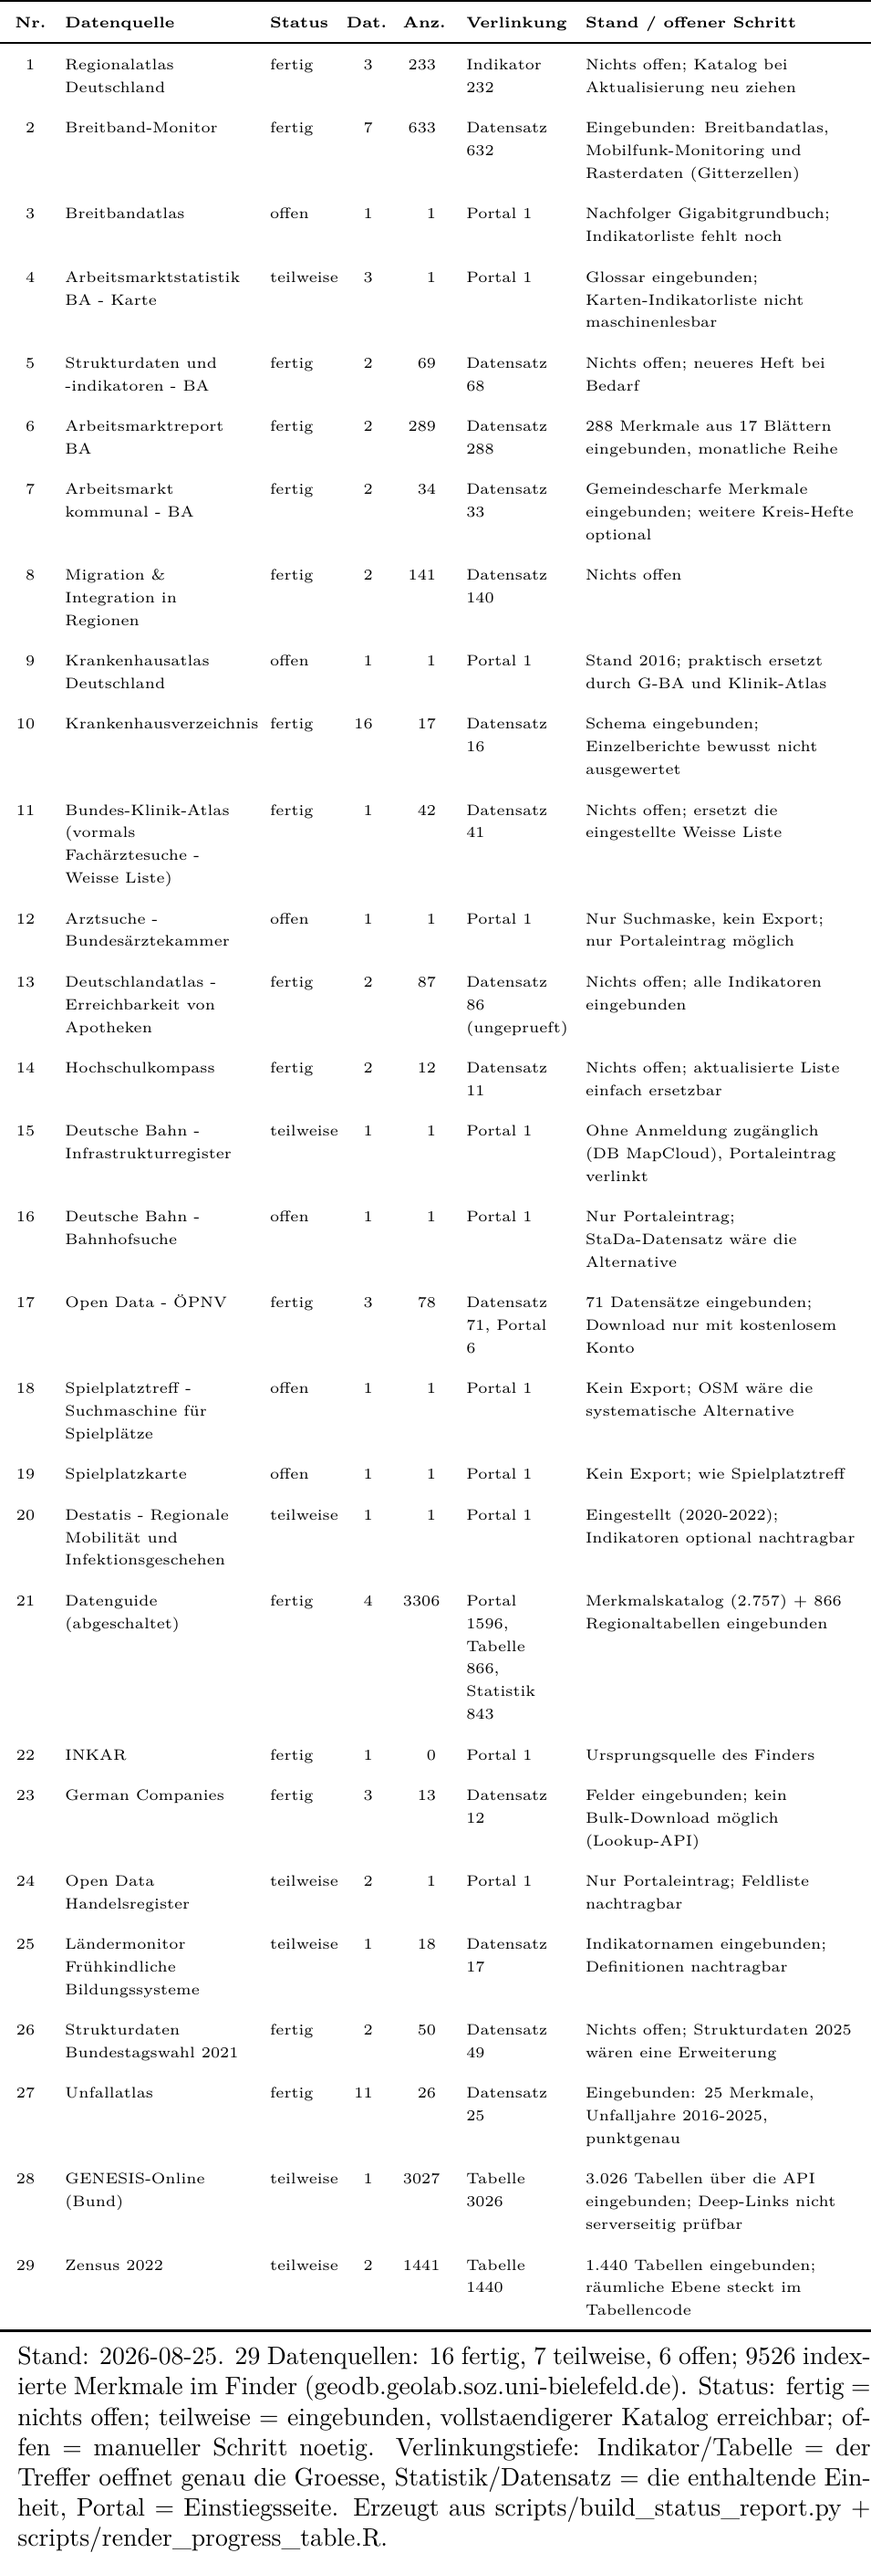
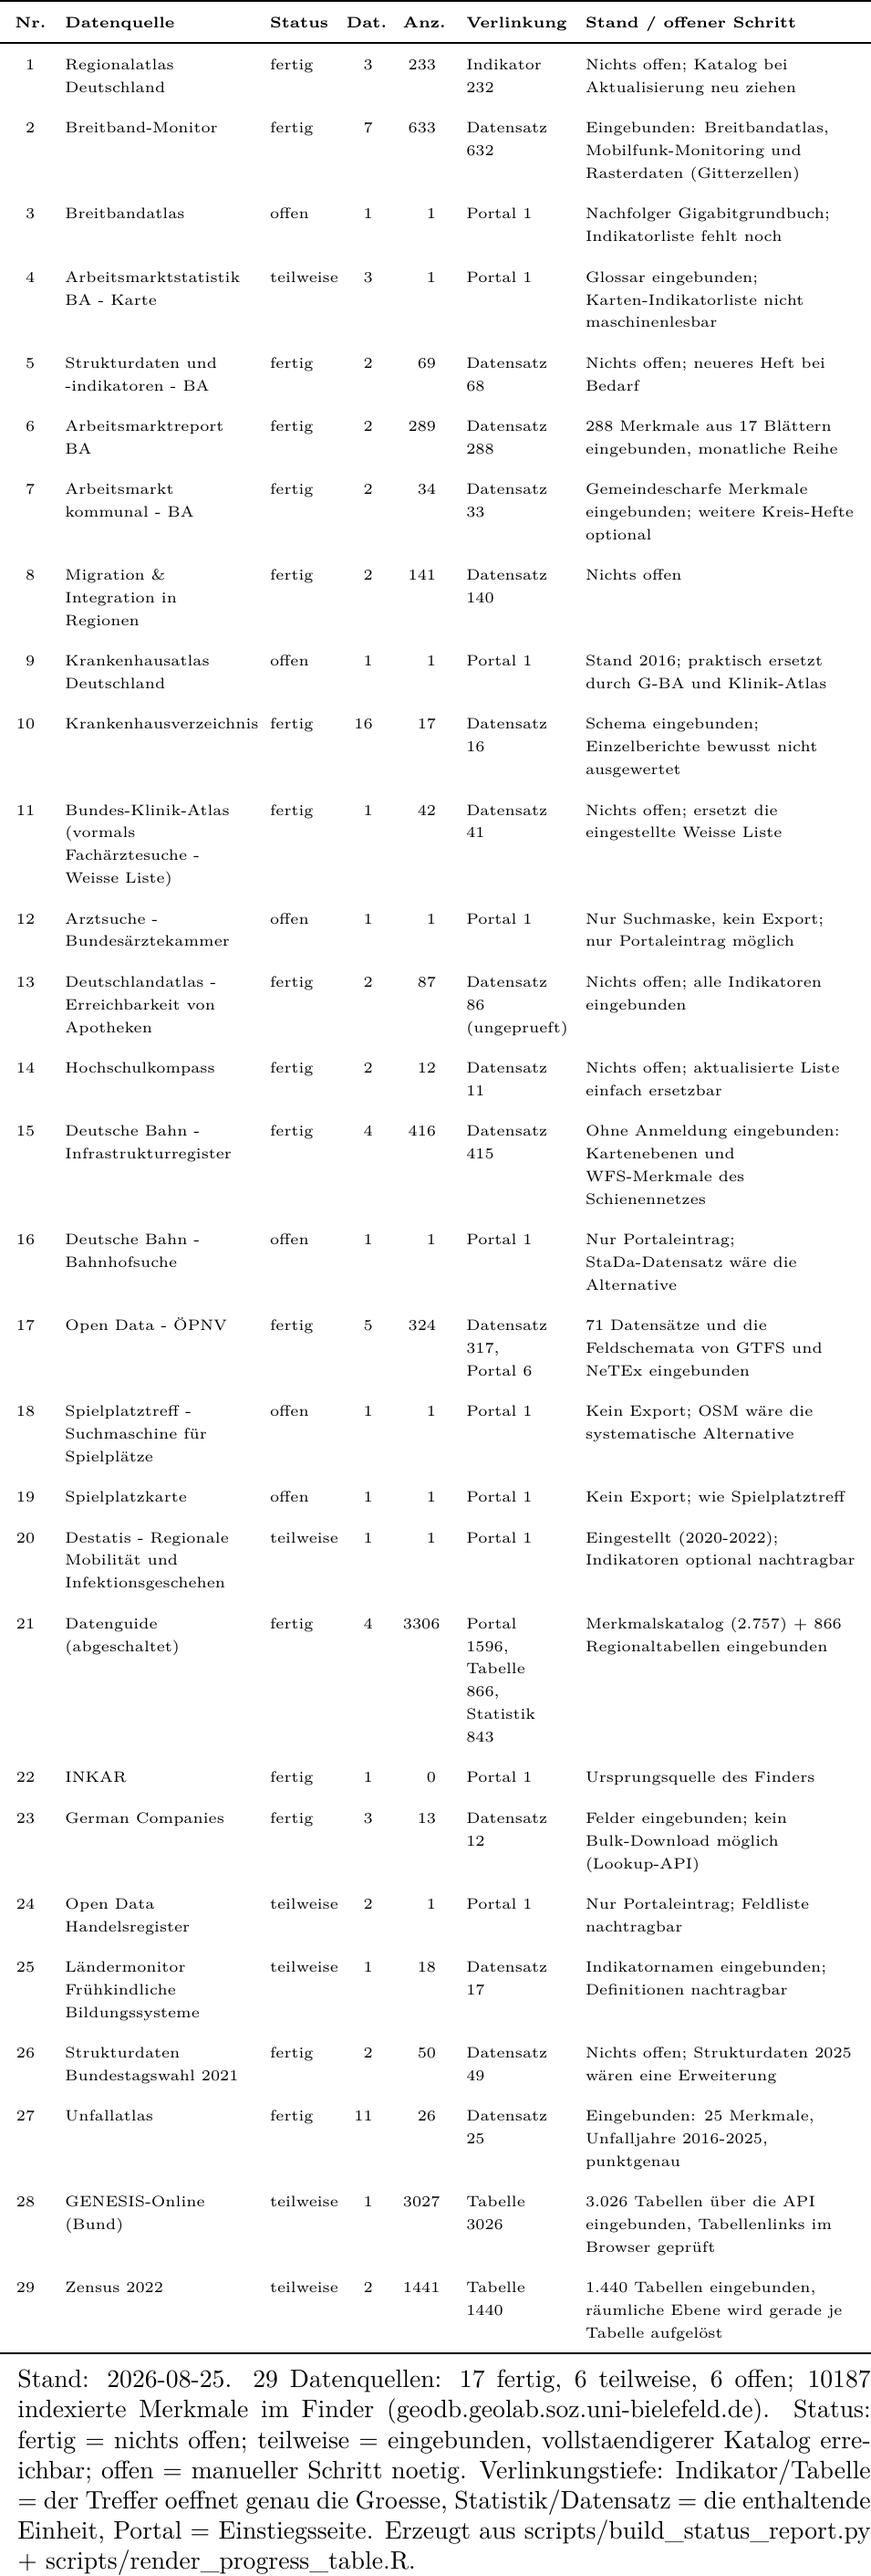
Refresh the tracker after ISR and the transit formats, correct two stale notes
The handoff table said the federal GENESIS and Zensus links could not be verified; they were
confirmed by hand on 2026-08-25, so the notes now say so and point at the running level
resolver instead. Counts include the 415 ISR records and the 246 GTFS/NeTEx fields.

diff --git a/scripts/build_status_report.py b/scripts/build_status_report.py
@@ -100,10 +100,10 @@ OPEN_ITEMS: Dict[str, Dict[str, str]] = {
     "german-companies": {"de": "Felder eingebunden; kein Bulk-Download möglich (Lookup-API)", "state": "done", "next": "API fields indexed and verified against live responses (samples in raw/). The endpoint is POST /lookup only, a record-linkage service: it resolves a company you already name. There is no bulk or search endpoint (every GET 404s, a city-only filter returns 0 rows), so the register cannot be downloaded through it, and the finder does not need it to. Key now lives in ~/kwandel/.config/secrets/."},
     "open-data-handelsregister": {"de": "Nur Portaleintrag; Feldliste nachtragbar", "state": "partial", "next": "Portal record only. The dump's field list (offeneregister schema) could be flattened without downloading the multi-GB data."},
     "laendermonitor-fruehkindliche-bildungssysteme": {"de": "Indikatornamen eingebunden; Definitionen nachtragbar", "state": "partial", "next": "Indicator names scraped from the overview page; the per-indicator definitions live on separate pages and would improve the descriptions."},
-    "genesis-online-bund": {"de": "3.026 Tabellen über die API eingebunden; Deep-Links nicht serverseitig prüfbar",
-        "state": "partial", "next": "3,026 tables enumerated over the REST API (331 statistics) and indexed with table-level links. The portal is a client-rendered SPA, so the documented ?operation=table&code= link form could not be verified from here: worth one browser check. Mostly Bund/Land depth; only 55 titles name Kreise or Gemeinden."},
-    "zensus-2022": {"de": "1.440 Tabellen eingebunden; räumliche Ebene steckt im Tabellencode",
-        "state": "partial", "next": "1,440 tables from 12 statistics indexed with table-level links. Two caveats: the portal is an SPA so links are unverified from here, and the regional level is encoded in the opaque table code rather than the title, so spatial_levels is deliberately left empty where the title does not name a level. Resolving those codes to levels would be the next quality step."},
+    "genesis-online-bund": {"de": "3.026 Tabellen über die API eingebunden, Tabellenlinks im Browser geprüft",
+        "state": "partial", "next": "3,026 tables enumerated over the REST API (331 statistics) and indexed with table-level links, confirmed by hand in a browser on 2026-08-25. Mostly Bund/Land depth: only 55 titles name Kreise or Gemeinden, which is why this stays partial for a regional finder."},
+    "zensus-2022": {"de": "1.440 Tabellen eingebunden, räumliche Ebene wird gerade je Tabelle aufgelöst",
+        "state": "partial", "next": "1,440 tables from 12 statistics indexed with table-level links, confirmed by hand in a browser on 2026-08-25. The regional level is encoded in the opaque table code rather than the title; scripts/resolve_zensus_levels.py is resolving it per table through metadata/table and the autopilot folds the result in, after which the spatial filter reaches these records."},
     "unfallatlas": {"de": "Eingebunden: 25 Merkmale, Unfalljahre 2016-2025, punktgenau", "state": "done", "next": "Attributes of the geocoded accident records indexed (2016-2025, point level with WGS84 and UTM32 coordinates). The yearly CSV archives stay on disk; individual accidents are never indexed."},
     "strukturdaten-bundestagswahl-2021": {"de": "Nichts offen; Strukturdaten 2025 wären eine Erweiterung", "state": "done", "next": "Nothing outstanding. The 2025 Strukturdaten would extend it."},
 }

diff --git a/data_sources/CHECKLIST.md b/data_sources/CHECKLIST.md
@@ -2,11 +2,11 @@
 
 Generated by `scripts/build_status_report.py` on 2026-08-25. Do not hand-edit: change `OPEN_ITEMS` in that script and re-run.
 
-**16 done, 7 partial, 6 open** of 29 sources. 9498 indicator-level records built (plus one portal-level record per source).
+**17 done, 6 partial, 6 open** of 29 sources. 10159 indicator-level records built (plus one portal-level record per source).
 
 `[x]` nothing outstanding | `[~]` indexed, a fuller catalogue is still reachable | `[ ]` needs a human step
 
-**Link precision across all records** (where a hit actually takes the reader): 5332 straight to the table, 1602 to the portal (search from there), 1489 to the dataset containing it, 843 to the statistic containing it, 232 straight to the indicator.
+**Link precision across all records** (where a hit actually takes the reader): 5332 straight to the table, 2150 to the dataset containing it, 1602 to the portal (search from there), 843 to the statistic containing it, 232 straight to the indicator.
 
 ## [x] 01. Regionalatlas Deutschland
 
@@ -144,14 +144,15 @@ Generated by `scripts/build_status_report.py` on 2026-08-25. Do not hand-edit: c
 - **Link precision:** 11 x to the dataset containing it
 - **Next step:** Register attributes indexed. A refreshed hs_liste.txt is a drop-in replacement.
 
-## [~] 15. Deutsche Bahn - Infrastrukturregister
+## [x] 15. Deutsche Bahn - Infrastrukturregister
 
 - **Folder:** `data_sources/15-deutsche-bahn-infrastrukturregister/`
 - **Portal:** https://geovdbn.deutschebahn.com/isr
 - **Coverage in workbook:** 2024-2025 | access: interactive map viewer, on request / registration needed | note: Stand 2024, vermutlich jährlich
-- **Downloaded:** 1 file(s), 22.5 KB: `portal.html`
-- **Indexed:** 0 indicator-level record(s) + 1 portal-level record
-- **Next step:** No registration needed after all: InfraGO support (ticket IIBV31-13354, 2026-08-25) confirmed the Infrastrukturregister is readable without a login at geoviewer.deutschebahn.com/maps/#/context/ISR/275618, which the portal record now points at. The Infraportal registration only covers the operational applications. Still open: the viewer publishes no machine-readable catalogue, so an indicator-level index would need DB's StaDa dataset or OSM railway data.
+- **Downloaded:** 4 file(s), 276.7 KB: `isr_wfs_attributes.json`, `isr_wfs_capabilities.xml`, `isr_wms_capabilities.xml`, `portal.html`
+- **Indexed:** 415 indicator-level record(s) + 1 portal-level record
+- **Link precision:** 415 x to the dataset containing it
+- **Next step:** No registration needed, and it does publish a machine-readable catalogue after all. The viewer is a MapStore2 app over a public GeoServer: WMS GetCapabilities lists the map themes (Streckenklasse, Elektrifizierung, ETCS, Gleisanzahl, Betriebsstellen, Bahnsteige, Tunnel, Bruecken, Bahnuebergaenge) and WFS DescribeFeatureType lists the attributes per feature type. Both are indexed, so this row went from one portal card to 436 records. German and English field names are paired where ISR publishes both. Optional next step: DB's StaDa station dataset for the Bahnhofsuche row.
 
 ## [ ] 16. Deutsche Bahn - Bahnhofsuche
 
@@ -167,9 +168,9 @@ Generated by `scripts/build_status_report.py` on 2026-08-25. Do not hand-edit: c
 - **Folder:** `data_sources/17-open-data-oepnv/`
 - **Portal:** https://www.opendata-oepnv.de/ht/de/willkommen
 - **Coverage in workbook:** 2017-2024 | access: machine-readable API | note: abhängig von Variable
-- **Downloaded:** 3 file(s), 238.4 KB: `datensaetze.html`, `description_api.txt`, `portal.html`
-- **Indexed:** 77 indicator-level record(s) + 1 portal-level record
-- **Link precision:** 71 x to the dataset containing it, 6 x to the portal (search from there)
+- **Downloaded:** 5 file(s), 3.3 MB: `datensaetze.html`, `description_api.txt`, `gtfs_reference.md`, `netex_pi_profile.pdf`, `portal.html`
+- **Indexed:** 323 indicator-level record(s) + 1 portal-level record
+- **Link precision:** 317 x to the dataset containing it, 6 x to the portal (search from there)
 - **Next step:** 71 named datasets indexed from the public catalogue (Deutschlandweite Sollfahrplandaten GTFS/NeTEX, Deutschlandweite Haltestellendaten, plus Soll-Fahrplandaten/Haltestellen/Liniendaten per Verbund), each with its own deep link, plus the no-login OpenService API products. Downloading a dataset still needs the free account.
 
 ## [ ] 18. Spielplatztreff - Suchmaschine für Spielplätze
@@ -275,17 +276,17 @@ Generated by `scripts/build_status_report.py` on 2026-08-25. Do not hand-edit: c
 - **Downloaded:** 1 file(s), 1001.2 KB: `genesis_catalogue_destatis.json`
 - **Indexed:** 3026 indicator-level record(s) + 1 portal-level record
 - **Link precision:** 3026 x straight to the table
-- **Next step:** 3,026 tables enumerated over the REST API (331 statistics) and indexed with table-level links. The portal is a client-rendered SPA, so the documented ?operation=table&code= link form could not be verified from here: worth one browser check. Mostly Bund/Land depth; only 55 titles name Kreise or Gemeinden.
+- **Next step:** 3,026 tables enumerated over the REST API (331 statistics) and indexed with table-level links, confirmed by hand in a browser on 2026-08-25. Mostly Bund/Land depth: only 55 titles name Kreise or Gemeinden, which is why this stays partial for a regional finder.
 
 ## [~] 29. Zensus 2022
 
 - **Folder:** `data_sources/29-zensus-2022/`
 - **Portal:** https://ergebnisse.zensus2022.de/
 - **Coverage in workbook:** 2022-2022 | access: direct file download, web UI / search form only, machine-readable API, interactive map viewer | note: Gebäude, Wohnungen, Haushalte und Personenmerkmale; Ebene steckt im Tabellencode, bis Gemeinde/Gitterzelle
-- **Downloaded:** 2 file(s), 458.9 KB: `genesis_catalogue_zensus.json`, `zensus_table_levels.json`
+- **Downloaded:** 2 file(s), 486.5 KB: `genesis_catalogue_zensus.json`, `zensus_table_levels.json`
 - **Indexed:** 1440 indicator-level record(s) + 1 portal-level record
 - **Link precision:** 1440 x straight to the table
-- **Next step:** 1,440 tables from 12 statistics indexed with table-level links. Two caveats: the portal is an SPA so links are unverified from here, and the regional level is encoded in the opaque table code rather than the title, so spatial_levels is deliberately left empty where the title does not name a level. Resolving those codes to levels would be the next quality step.
+- **Next step:** 1,440 tables from 12 statistics indexed with table-level links, confirmed by hand in a browser on 2026-08-25. The regional level is encoded in the opaque table code rather than the title; scripts/resolve_zensus_levels.py is resolving it per table through metadata/table and the autopilot folds the result in, after which the spatial filter reaches these records.
 
 ## Candidate sources not in the workbook
 
